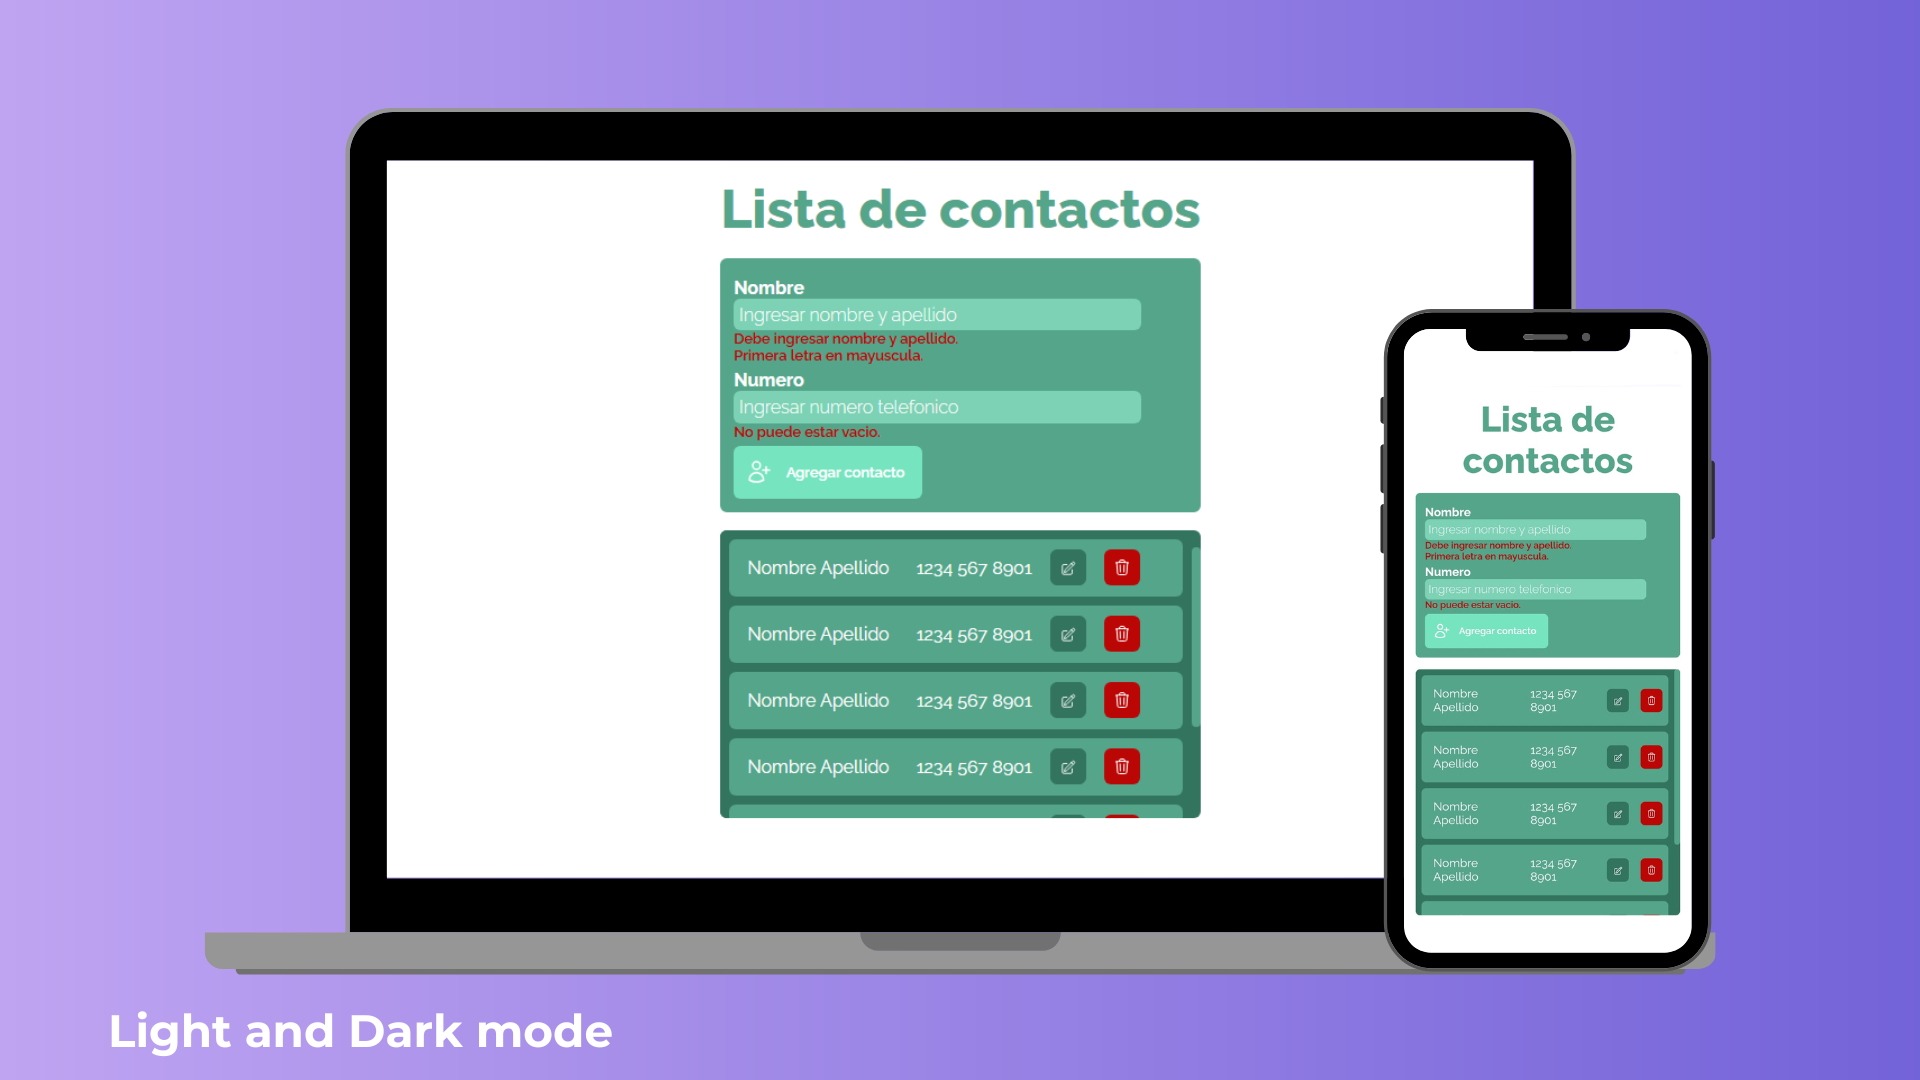
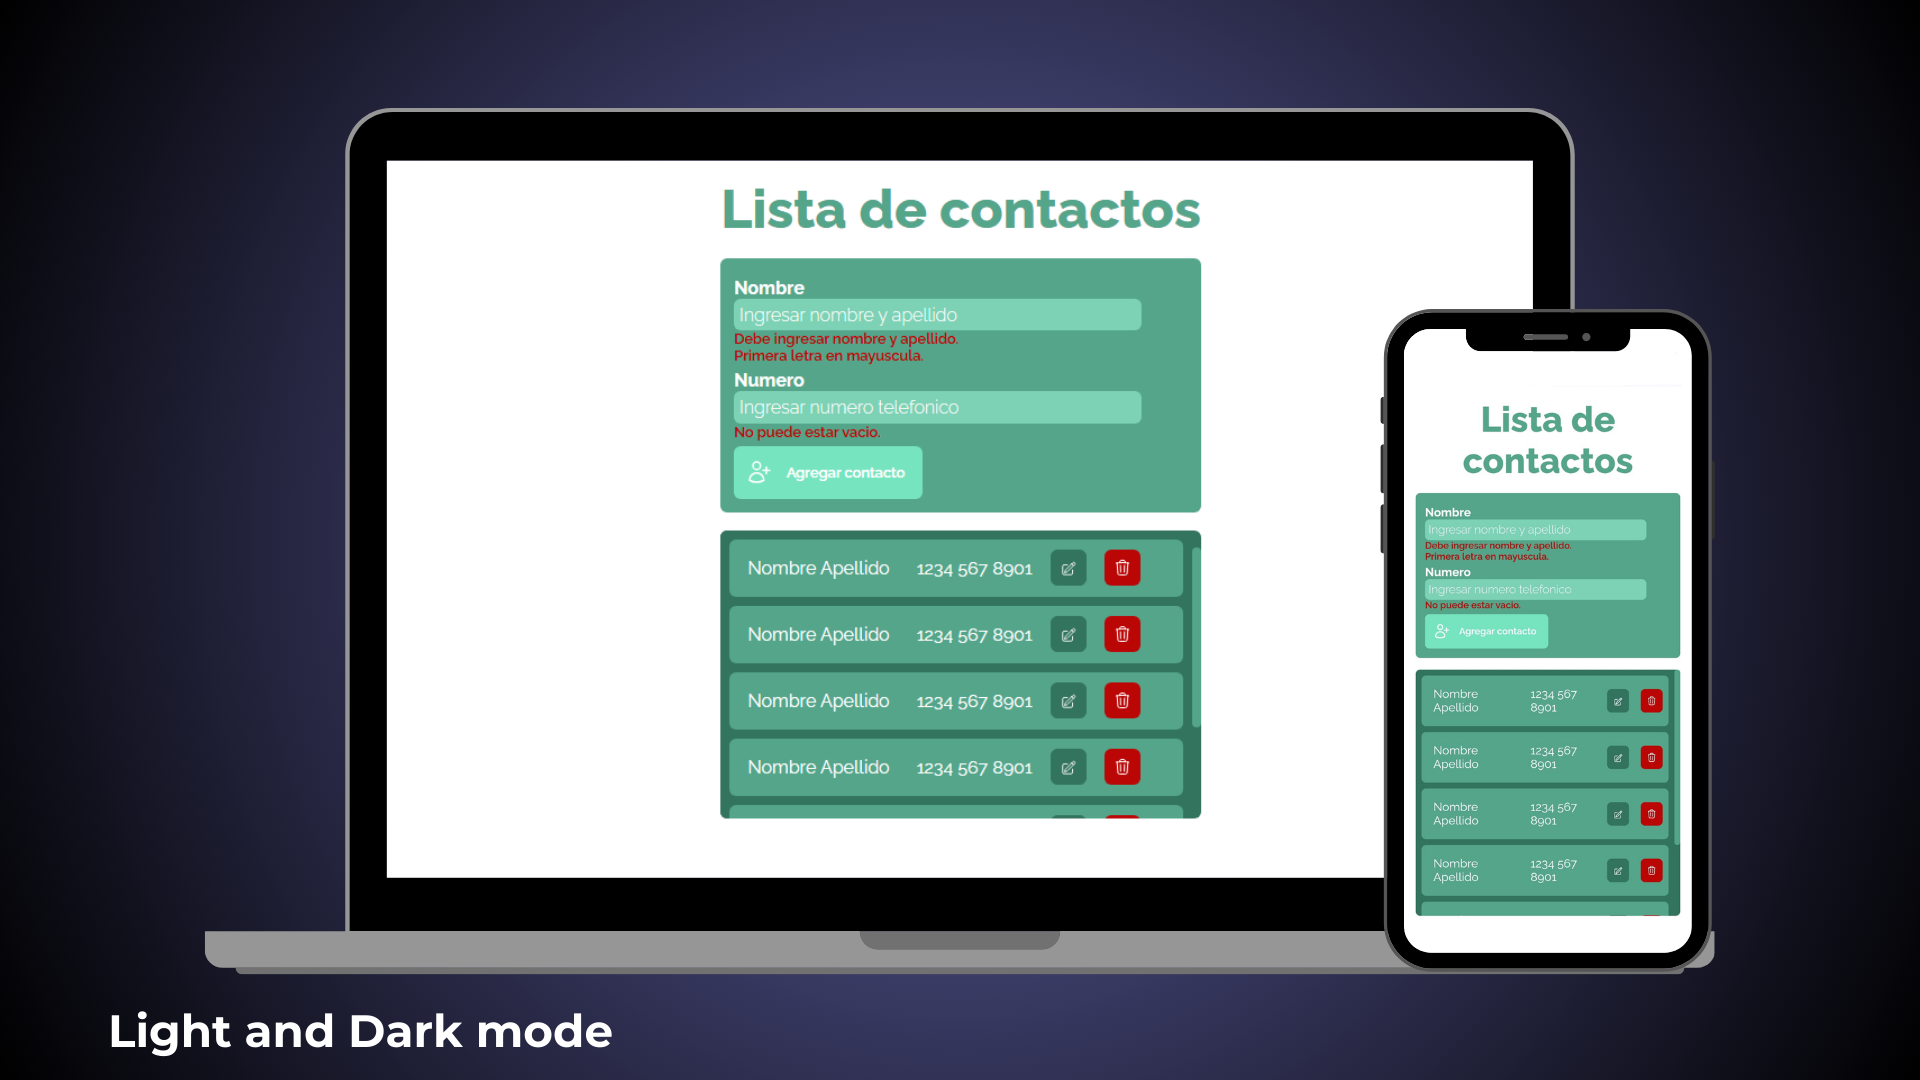
Nuevas immagees para #project-items,, cambio de color en sombreado about-container y nuevo color en --primary-color en modo claro

diff --git a/global.css b/global.css
@@ -18,10 +18,10 @@
 	color-scheme: light dark;
     --bg-color: light-dark(#EFE8F6, #120D31);
     --bg-color-contend: light-dark(#b1afe4, #6456A1);
-	--primary-color: light-dark(#7262d8, #e9c8ff);
+	--primary-color: light-dark(#7262d8, #b1a0ee);
     --primary-color-dark: light-dark(#afa2ff, #b06df3);
 	--primary-color-light: light-dark(#7262d8, #b770ff);
-    --border-color: light-dark (#967fb1, #120d3196);
+    --border-color: light-dark (#1b003a, #120d3196);
     --text-color: light-dark(#6456A1, #ffffff);
 	--link-color: light-dark(#EFE8F6, #ffffff);
 	--footer-btn-color: light-dark(#100447, #F2F2F2);

diff --git a/index.css b/index.css
@@ -118,7 +118,7 @@ body {
 #about-container {
     background-color: var(--bg-color-contend);
     color: var(--text-btn-color);
-    box-shadow: inset 0 20px 20px -10px var(--border-color);
+    box-shadow: inset 0 10px 20px -10px var(--border-color);
     height: 100%;
 	display: flex;
 	flex-direction: column;
